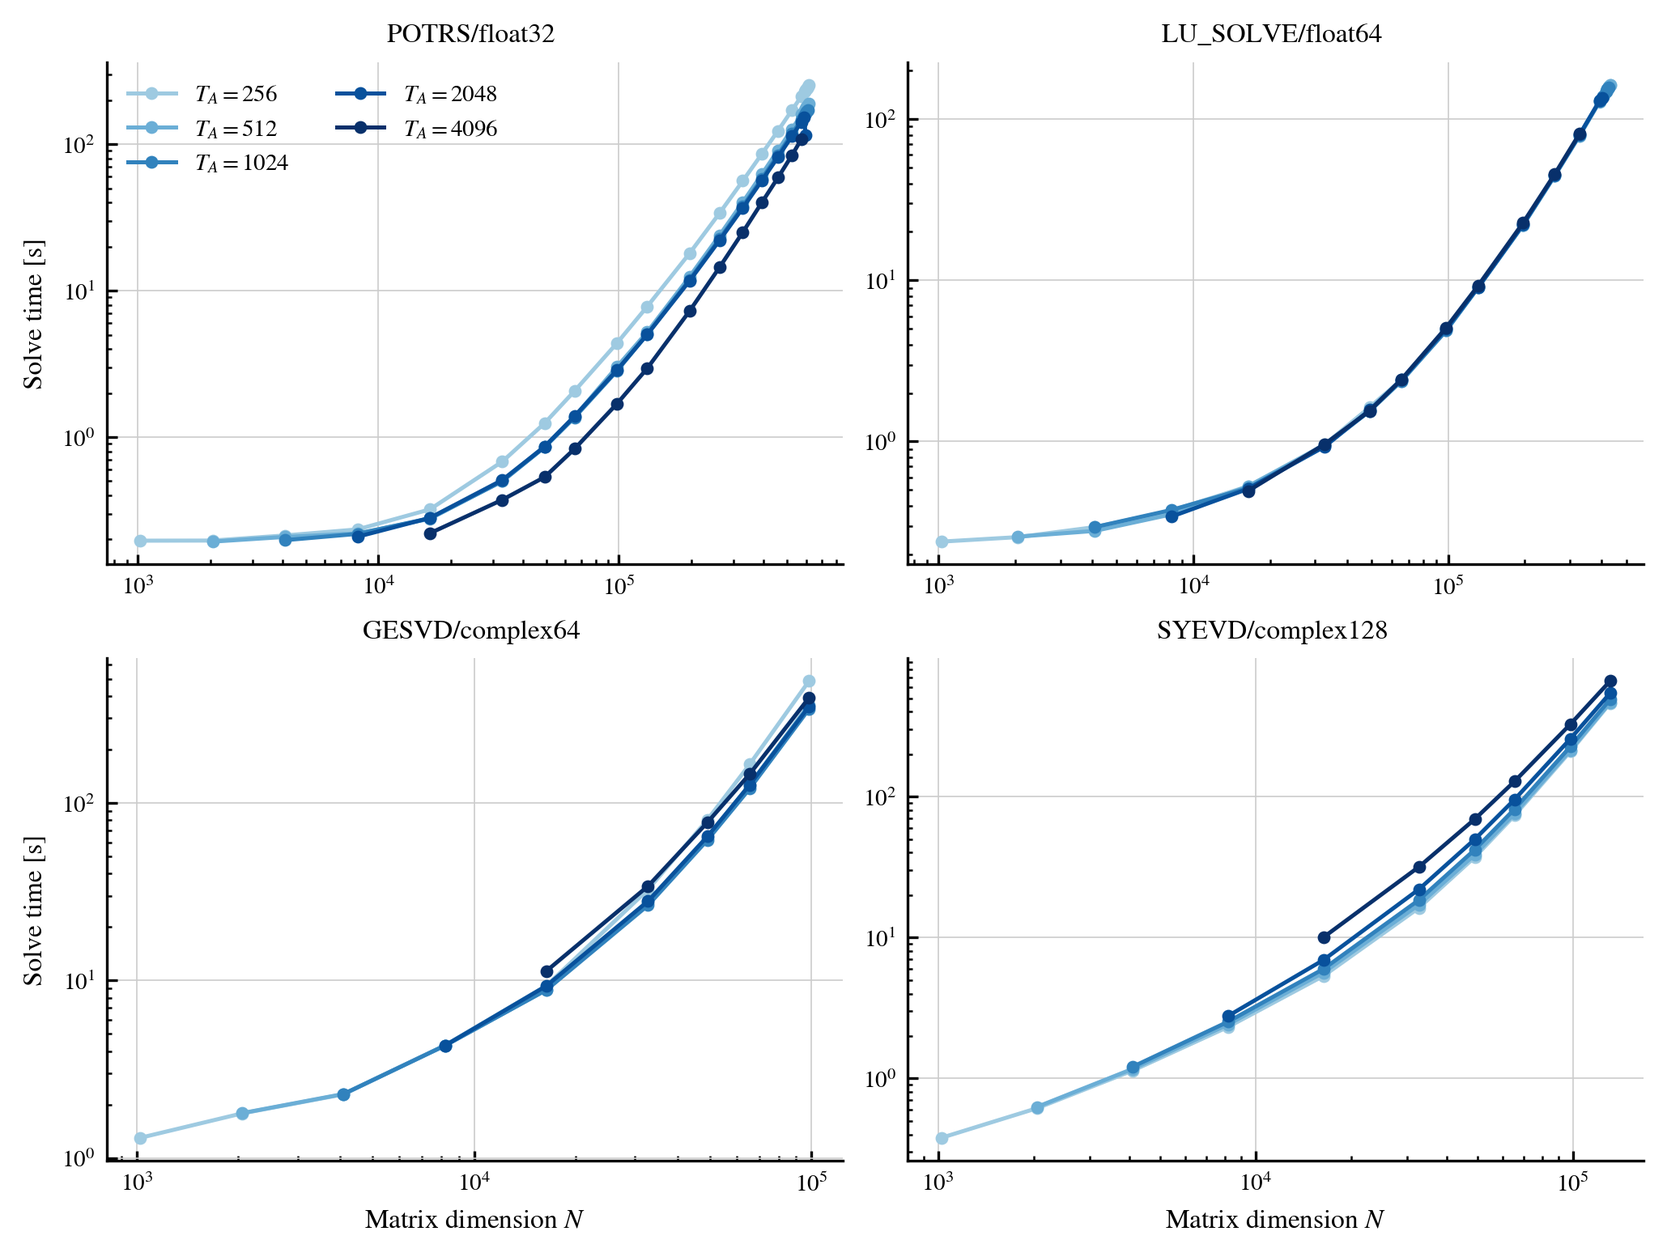
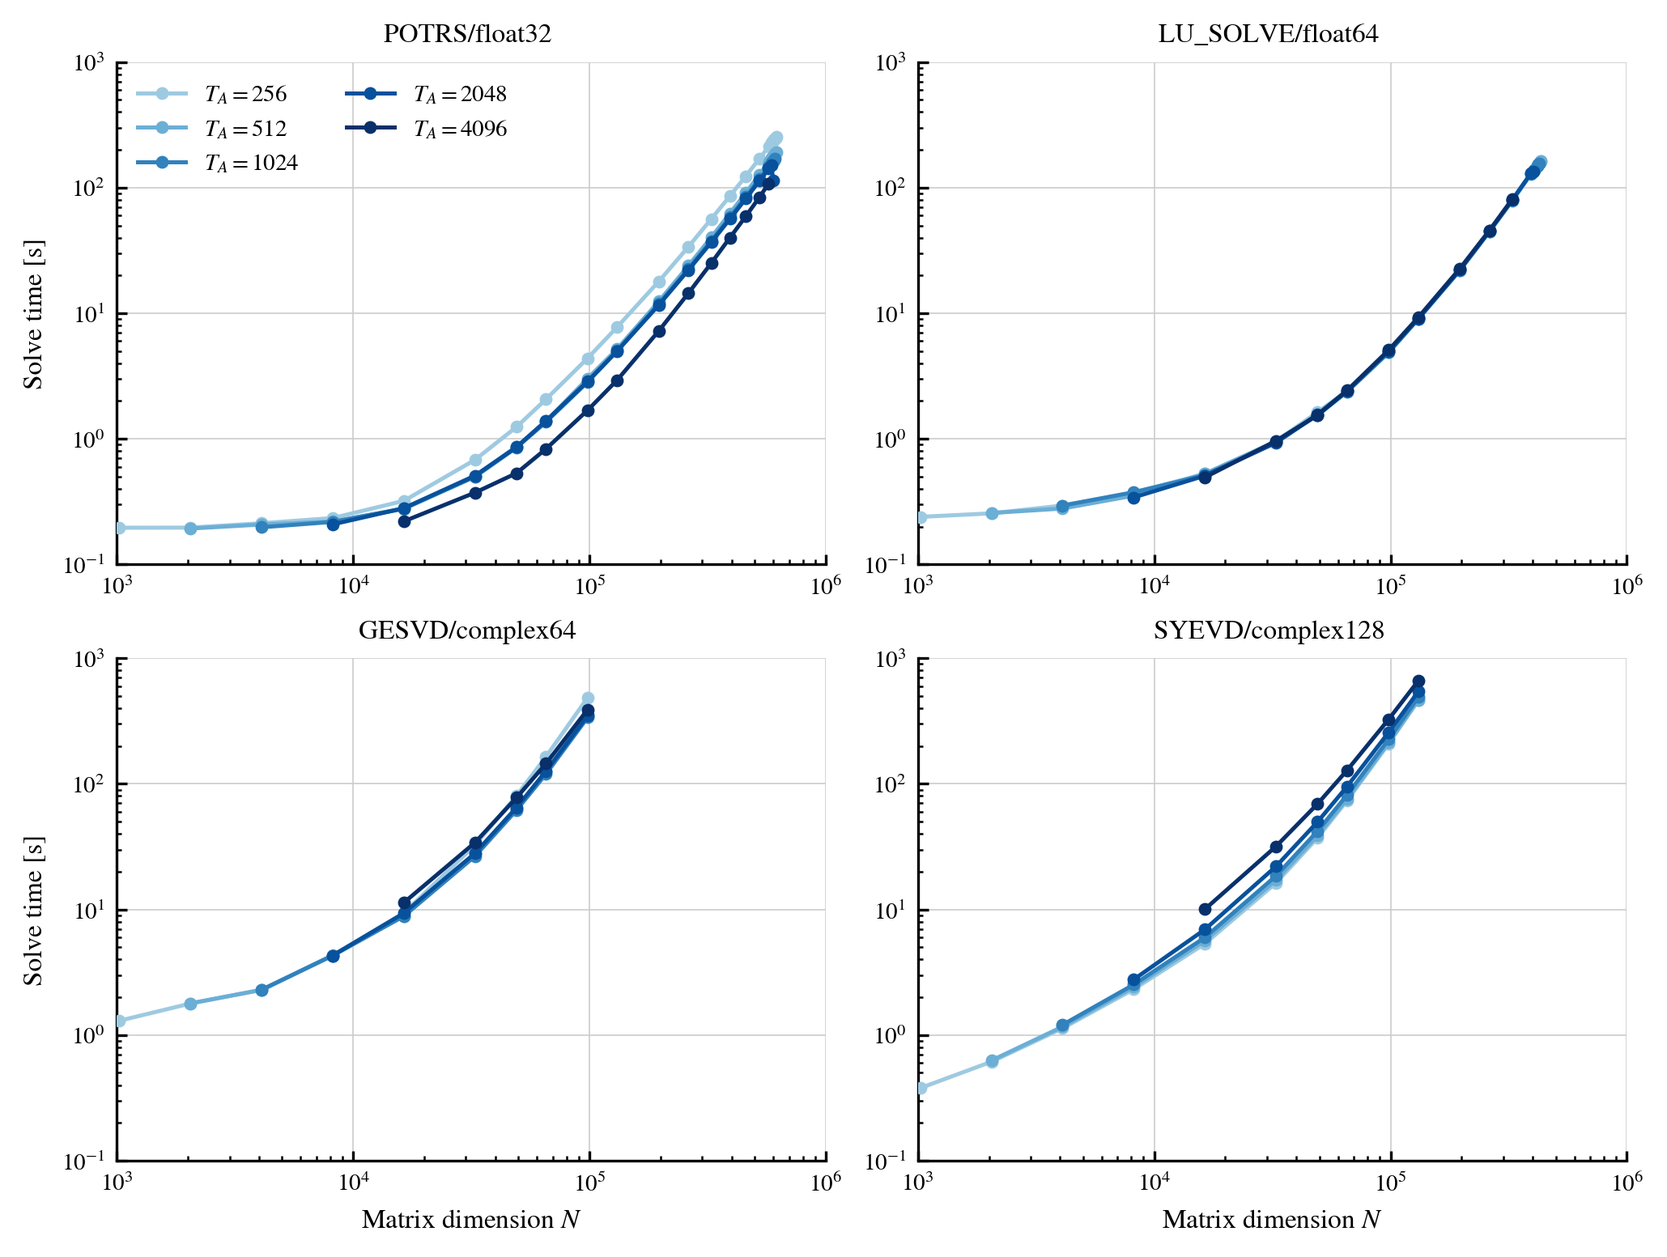
update paper

diff --git a/paper/paper.md b/paper/paper.md
@@ -17,10 +17,10 @@ authors:
     corresponding: true # (This is how to denote the corresponding author)
     affiliation: 3 # (Multiple affiliations must be quoted)
 affiliations:
- - name: Cavendish Astrophysics, University of Cambridge, Cambridge CB30HE, UK
+ - name: Cavendish Astrophysics, University of Cambridge, Cambridge CB3 0HE, UK
    index: 1
    ror: 0247acz73
- - name: Kavli Institute for Cosmology, University of Cambridge, Cambridge CB30HA, UK
+ - name: Kavli Institute for Cosmology, University of Cambridge, Cambridge CB3 0HA, UK
    index: 2
    ror: 00pwqz914
  - name: Center for Computational Quantum Physics, Flatiron Institute, 162 Fifth Avenue, New York, NY 10010, USA
@@ -35,7 +35,7 @@ bibliography: paper.bib
 
 Solving large dense linear systems and eigenvalue problems is a core requirement in many areas of scientific computing, but scaling these operations beyond a single GPU remains challenging within modern programming frameworks. While highly optimized multi-GPU solver libraries exist, they are typically difficult to integrate into composable, just-in-time (JIT) compiled Python workflows.
 
-JAXMg provides distributed dense linear algebra for JAX, enabling linear solves and decompositions for matrices that exceed single-GPU memory limits. By interfacing JAX with NVIDIA’s cuSOLVERMp through an XLA Foreign Function Interface, JAXMg exposes distributed GPU routines as JIT-compatible JAX primitives. This design allows scalable linear algebra to be embedded directly within JAX programs, preserving composability with JAX transformations and enabling multi-GPU and multi-node execution in end-to-end scientific workflows.
+JAXMg provides distributed dense linear algebra for JAX, enabling linear solves and decompositions for matrices that exceed single-GPU memory limits. By interfacing JAX with NVIDIA's cuSOLVERMp through an XLA Foreign Function Interface, JAXMg exposes distributed GPU routines as JIT-compatible JAX primitives. This design allows scalable linear algebra to be embedded directly within JAX programs, preserving composability with JAX transformations and enabling multi-GPU and multi-node execution in end-to-end scientific workflows.
 
 # Statement of need
 
@@ -50,7 +50,7 @@ In parallel, JAX [@jax2018github] has become a widely adopted framework for scie
 because it combines a simple user experience with JIT compilation and automatic
 differentiation. The JAX ecosystem has expanded rapidly, with libraries for neural networks
 [@flax2020github], Bayesian inference [@cabezas2024blackjax], differential equations [@kidger2021on],
-Variational Monte Carlo [@netket3:2022]
+variational Monte Carlo [@netket3:2022],
 and full physics simulation environments [@brax2021github]. These workflows often require repeatedly
 solving linear systems or computing eigenvalue decompositions, either as part of a larger simulation
 loop or inside differentiable optimization.
@@ -67,11 +67,11 @@ manually orchestrating GPU kernels outside JAX's JIT. These approaches
 break composability and complicate memory management.
 
 JAXMg addresses this need by providing a distributed multi-GPU and multi-node interface to GPU-accelerated solver
-backends, enabling scalable linear solves and eigendecompositions from within JAX. 
+backends, enabling scalable linear solves and eigendecompositions from within JAX.
 
 # Software design
 
-JAXMg connects JAX to NVIDIA’s distributed dense linear algebra library cuSOLVERMp [@cusolver] via an XLA Foreign Function Interface (FFI) C++/CUDA extension. This design enables writing complex, JIT-compatible JAX programs while delegating the computationally intensive components to a compiled backend.
+JAXMg connects JAX to NVIDIA's distributed dense linear algebra library cuSOLVERMp [@cusolver] via an XLA Foreign Function Interface (FFI) C++/CUDA extension. This design enables writing complex, JIT-compatible JAX programs while delegating the computationally intensive components to a compiled backend.
 
 Simply pass JAXMg an ordinary JAX array sharded over a two-dimensional device mesh. The native backend handles the local memory-layout conversion, 2D block-cyclic redistribution, distributed solver execution, and restoration of the result to its original JAX layout.
 
@@ -193,7 +193,7 @@ $$
 = \mathbf{F},
 $$
 
-where $\mathbf{S}$ is the quantum geometric tensor, $\mathbf{F}$ is the variational force associated with the energy gradient, and $\lambda>0$ is a diagonal regularization. The Monte Carlo estimate of $\mathbf{S}$ is Hermitian positive semidefinite; the regularization makes it positive definite and therefore suitable for Cholesky factorization. Because this solve is repeated at every optimization step, explicitly forming $\mathbf{S}$ for $N_{\mathrm{par}}$ parameters requires an $N_{\mathrm{par}}\times N_{\mathrm{par}}$ dense matrix and can quickly become limited by single-GPU memory. Alternatively, in the MinSR formulation [@rende2024simple,@chen2024empowering], the neural tangent kernel is of size $N_{\mathrm{samples}}\times N_{\mathrm{samples}}$, which faces a similar problem as the number of Monte Carlo samples increases. JAXMg's distributed `potrs` allows the parameter update to remain within one JIT-compiled JAX workflow, enabling direct stochastic-reconfiguration solves for larger neural quantum states and other parameterized variational ansätze.
+where $\mathbf{S}$ is the quantum geometric tensor, $\mathbf{F}$ is the variational force associated with the energy gradient, and $\lambda>0$ is a diagonal regularization. The Monte Carlo estimate of $\mathbf{S}$ is Hermitian positive semidefinite; the regularization makes it positive definite and therefore suitable for Cholesky factorization. Because this solve is repeated at every optimization step, explicitly forming $\mathbf{S}$ for $N_{\mathrm{par}}$ parameters requires an $N_{\mathrm{par}}\times N_{\mathrm{par}}$ dense matrix and can quickly become limited by single-GPU memory. Alternatively, in the MinSR formulation [@rende2024simple; @chen2024empowering], the neural tangent kernel is of size $N_{\mathrm{samples}}\times N_{\mathrm{samples}}$, which faces a similar problem as the number of Monte Carlo samples increases. JAXMg's distributed `potrs` allows the parameter update to remain within one JIT-compiled JAX workflow, enabling direct stochastic-reconfiguration solves for larger neural quantum states and other parameterized variational ansätze.
 JAXMg is integrated in the latest version of NetKet [@netket3:2022].
 
 ### General linear solve (`lu_solve`)
@@ -210,49 +210,49 @@ $$
 
 the columns of $V$ are the principal directions, while $U\Sigma$ contains the corresponding low-dimensional representations of the samples. The variance associated with the $i$th component is proportional to $\sigma_i^2$, allowing the data to be compressed by retaining only the leading singular values and vectors. JAXMg's distributed `gesvd` routine enables PCA for dense datasets whose sample or feature dimensions make the full data matrix and its decomposition too large for a single GPU.
 
-Singular-value decompositions are a central primitive in tensor-network algorithms for quantum many-body systems [@schollwock2011density; @banuls2023tensor]. After applying a local gate, contracting neighbouring tensors, or enlarging an auxiliary bond, the resulting tensor is reshaped into a matrix and decomposed as $X=U\Sigma V^\mathsf{T}$. Retaining the largest singular values yields the optimal low-rank approximation in the Frobenius norm, controls the tensor-network bond dimension, and provides an estimate of the truncation error through the discarded singular-value weight. The SVD is therefore the backbone of modern tensor network algorithms such as the density matrix renormalization group (DMRG), time-evolving block decimation (TEBD) and approximate contraction schemes for hig-dimensional networks. As the physical dimension and bond dimensions grow, the intermediate matrices entering these decompositions can become considerably larger than the tensors retained after truncation and may exceed the memory of one GPU. JAXMg's distributed `gesvd` allows tensor contractions, reshaping, singular-vector construction, and truncation to remain within a JIT-compiled JAX workflow, supporting tensor-network calculations at larger bond dimensions without exporting arrays to an external distributed solver.
+Singular-value decompositions are a central primitive in tensor-network algorithms for quantum many-body systems [@schollwock2011density; @banuls2023tensor]. After applying a local gate, contracting neighbouring tensors, or enlarging an auxiliary bond, the resulting tensor is reshaped into a matrix and decomposed as $X=U\Sigma V^\mathsf{T}$. Retaining the largest singular values yields the optimal low-rank approximation in the Frobenius norm, controls the tensor-network bond dimension, and provides an estimate of the truncation error through the discarded singular-value weight. The SVD is therefore the backbone of modern tensor-network algorithms such as the density matrix renormalization group (DMRG), time-evolving block decimation (TEBD), and approximate contraction schemes for high-dimensional networks. As the physical dimension and bond dimensions grow, the intermediate matrices entering these decompositions can become considerably larger than the tensors retained after truncation and may exceed the memory of one GPU. JAXMg's distributed `gesvd` allows tensor contractions, reshaping, singular-vector construction, and truncation to remain within a JIT-compiled JAX workflow, supporting tensor-network calculations at larger bond dimensions without exporting arrays to an external distributed solver.
 
 
 
 ### Symmetric eigendecomposition (`syevd`)
 
-The time-dependent variational principle (TDVP) projects Schrödinger evolution onto the tangent space of a parameterized quantum state, producing equations of motion of the form [@Carleo2017,@Schmitt2020QuantumDynamics]
+The time-dependent variational principle (TDVP) projects Schrödinger evolution onto the tangent space of a parameterized quantum state, producing equations of motion of the form [@Carleo2017; @Schmitt2020QuantumDynamics]
 
 $$
 \dot{\boldsymbol{\theta}}
 = -i\mathbf{S}^+ \mathbf{F},
 $$
 
-where $\mathbf{S}$ and $\mathbf{F}$ are the same objects as in the Cholesky-solve section. In practical time-dependent variational Monte Carlo calculations, redundant parameters, gauge directions, and Monte Carlo noise can make $\mathbf{S}$ singular or severely ill-conditioned. An eigendecomposition $\mathbf{S}=\mathbf{V}\boldsymbol{\Lambda}\mathbf{V}^{\dagger}$ exposes these directions and permits stable spectral regularization, for example by discarding eigenvalues below a threshold or replacing $\boldsymbol{\Lambda}^{-1}$ with a smooth pseudoinverse. Since the decomposition may be required at every stage of an ODE integrator, its memory and computational cost become substantial as the number of variational parameters grows. JAXMg's distributed `syevd` enables full-spectrum regularization and diagnostics to be carried out on matrices exceeding single-GPU memory while keeping state evaluation, Monte Carlo estimation, and time integration inside a compiled JAX program. JAXMg has been used for the t-VMC simulations of [@Wan2026BlurredSampling,@Wiersema2026].
+where $\mathbf{S}$ and $\mathbf{F}$ are the same objects as in the Cholesky-solve section. In practical time-dependent variational Monte Carlo calculations, redundant parameters, gauge directions, and Monte Carlo noise can make $\mathbf{S}$ singular or severely ill-conditioned. An eigendecomposition $\mathbf{S}=\mathbf{V}\boldsymbol{\Lambda}\mathbf{V}^{\dagger}$ exposes these directions and permits stable spectral regularization, for example by discarding eigenvalues below a threshold or replacing $\boldsymbol{\Lambda}^{-1}$ with a smooth pseudoinverse. Since the decomposition may be required at every stage of an ODE integrator, its memory and computational cost become substantial as the number of variational parameters grows. JAXMg's distributed `syevd` enables full-spectrum regularization and diagnostics to be carried out on matrices exceeding single-GPU memory while keeping state evaluation, Monte Carlo estimation, and time integration inside a compiled JAX program. JAXMg has been used for the t-VMC simulations of [@Wan2026BlurredSampling; @Wiersema2026].
 
 ## Performance and scaling
 
-To assess performance, we benchmark we benchmark two process-grid layouts at fixed GPU count in the large matrix regime. Our setup is 16 NVIDIA H100s (94 GB VRAM), 4 per node, connected with SXM5 NVLink and 4x 400Gb InfiniBand connections for inter-node communication.
+To assess performance, we benchmark two process-grid layouts at fixed GPU count in the large-matrix regime. Our setup is 16 NVIDIA H100s (94 GB VRAM), 4 per node, connected with SXM5 NVLink and 4x 400Gb InfiniBand connections for inter-node communication.
 
-We report four representative cases: `potrs` (float32), `lu_solve` (float64), and `gesvd` (complex64) and `syevd` (complex128).
-For `potrs`, `lu_solve` and `syevd`, we use a diagonal matrix $A=\mathrm{diag}(1,\ldots,N)$, and for `potrs` and `lu_solve` we set $b=(1,\ldots,1)^\mathsf{T}$. For `gesvd`, we use a random Gaussian matrix with mean zero and unit variance. We set the tile size $T_A=256$ and report wall-clock timings in \autoref{fig:benchmark}; the benchmark code is available at [@jaxmg_benchmark].
+We report four representative cases: `potrs` (float32), `lu_solve` (float64), `gesvd` (complex64), and `syevd` (complex128).
+For `potrs`, `lu_solve`, and `syevd`, we use a diagonal matrix $A=\mathrm{diag}(1,\ldots,N)$, and for `potrs` and `lu_solve` we set $b=(1,\ldots,1)^\mathsf{T}$. For `gesvd`, we use a random Gaussian matrix with mean zero and unit variance. We set the tile size $T_A=256$ and report wall-clock timings in \autoref{fig:benchmark}; the benchmark code is available at [@jaxmg_benchmark].
 We see that JAXMg scales better than the native single-GPU linear algebra routines and surpasses them in performance, especially for larger matrices.
 Both `gesvd` and `syevd` require significantly more workspace memory than `potrs` and `lu_solve`, which is reflected in the matrix sizes that can be reached.
 
-![Wall-clock solve time against matrix dimension $N$ for JAXMg on 16 NVIDIA H100 GPUs, comparing two process-grid layouts at fixed GPU count and fixed tile size $T_A=256$: a $16\times1$ column grid (dark blue) and a $4\times4$ square grid (orange). There are four panels: (a) `jaxmg.potrs` (float32), (b) `jaxmg.lu_solve` (float64), (c) `jaxmg.gesvd` (complex64) and (d) `jaxmg.syevd` (complex128). The square grid is faster in every case, by a geometric mean of $1.77\times$ for `potrs`, $1.38\times$ for `gesvd`, $1.23\times$ for `lu_solve`, and $1.21\times$ for `syevd`. The two matrix decompositions hold more matrix-sized workspace per GPU than the solves and so terminate at markedly smaller $N$.\label{fig:benchmark}](jaxmg_benchmark.png){ width=100% }
+![Wall-clock solve time against matrix dimension $N$ for JAXMg on 16 NVIDIA H100 GPUs, comparing two process-grid layouts at fixed GPU count and fixed tile size $T_A=256$ — a $16\times1$ column grid (dark blue) and a $4\times4$ square grid (orange) — each against single-GPU native JAX (green, dashed). There are four panels: (a) `jaxmg.potrs` (float32), (b) `jaxmg.lu_solve` (float64), (c) `jaxmg.gesvd` (complex64) and (d) `jaxmg.syevd` (complex128). The square grid is faster in every case, by a geometric mean of $1.77\times$ for `potrs`, $1.38\times$ for `gesvd`, $1.23\times$ for `lu_solve`, and $1.21\times$ for `syevd`. The two matrix decompositions hold more matrix-sized workspace per GPU than the solves and so terminate at markedly smaller $N$.\label{fig:benchmark}](jaxmg_benchmark.png){ width=100% }
 
 To investigate the effect of the tile size, we sweep the different tile sizes $T_A$ for all routines and report wall-clock timings in \autoref{fig:tile_sweep}; the benchmark code is available at [@jaxmg_benchmark]. While `potrs` clearly benefits from larger tile sizes, the performance of `lu_solve` is unaffected. `syevd` degrades steadily as the tile grows, while `gesvd` is fastest at an intermediate $T_A=1024$ and slower at both smaller and larger tiles.
 
-![Effect of the tile size on JAXMg wall-clock solve time, for the $4\times4$ process grid on the same 16 NVIDIA H100 GPUs. Each panel draws one curve per $T_A\in\{256,512,1024,2048,4096\}$, shaded light to dark with increasing tile size. There are four panels: (a)`jaxmg.potrs` (float32), (b) `jaxmg.lu_solve` (float64), (c) `jaxmg.gesvd` (complex64) and (d) `jaxmg.syevd` (complex128). Curves for larger $T_A$ begin at larger $N$ because a dimension must be a whole number of tiles along both grid axes.\label{fig:tile_sweep}](tile_sweep.png){ width=100% }
+![Effect of the tile size on JAXMg wall-clock solve time, for the $4\times4$ process grid on the same 16 NVIDIA H100 GPUs. Each panel draws one curve per $T_A\in\{256,512,1024,2048,4096\}$, shaded light to dark with increasing tile size. There are four panels: (a) `jaxmg.potrs` (float32), (b) `jaxmg.lu_solve` (float64), (c) `jaxmg.gesvd` (complex64) and (d) `jaxmg.syevd` (complex128). Curves for larger $T_A$ begin at larger $N$ because a dimension must be a whole number of tiles along both grid axes.\label{fig:tile_sweep}](tile_sweep.png){ width=100% }
 
-To test the limits of what JAXMg can do, we performed a Cholesky solve of a matrix of size $N=1499136$ with $T_A=1024$ on 64 NVIDIA H200s (143 GB VRAM) laid out on an 8x8 grid, using 8 GPUs per node with SXM5 NVLink and 8x 400Gb InfiniBand connections for inter-node communication. This matrix occupies 8.2 TiB in aggregate device memory, and the warm solve took 654 seconds. At the largest dimension both layouts completed, $N=1310720$, the 8x8 grid was 6.8 times faster than the 64x1 grid, at 452 against 3065 seconds.
+To test the limits of what JAXMg can do, we performed a Cholesky solve of a matrix of size $N=1499136$ with $T_A=1024$ on 64 NVIDIA H200s (143 GB VRAM) laid out on an $8\times8$ grid, using 8 GPUs per node with SXM5 NVLink and 8x 400Gb InfiniBand connections for inter-node communication. This matrix occupies 8.2 TiB in aggregate device memory, and the warm solve took 654 seconds. At the largest dimension both layouts completed ($N=1310720$), the $8\times8$ grid was 6.8 times faster than the $64\times1$ grid, at 452 against 3065 seconds.
 
-These results highlight JAXMg’s primary impact: enabling dense linear solves and eigendecompositions that are bottlenecked by the memory capacity of a single GPU, while remaining within JAX’s composable and JIT-compiled programming model. On modern multi-GPU nodes, distributed in-node solvers make it possible to tackle matrix sizes that would otherwise be infeasible, and to increase throughput by using aggregate device memory and compute.
+These results highlight JAXMg's primary impact: enabling dense linear solves and eigendecompositions that are bottlenecked by the memory capacity of a single GPU, while remaining within JAX's composable and JIT-compiled programming model. On modern multi-GPU nodes, distributed in-node solvers make it possible to tackle matrix sizes that would otherwise be infeasible, and to increase throughput by using aggregate device memory and compute.
 
 # AI usage disclosure
 
-Claude code was used during software development for code exploration and debugging. Large language models were used to assist with language polishing.
+Claude Code was used during software development for code exploration and debugging. Large language models were used to assist with language polishing.
 
 # Acknowledgements
 
-We want to thank Dennis Bollweg, Alex Chavin, Geraud Krawezik, Dylan Simon and Nils Wentzell for their help with developing the code. We also want to acknowledge the help of Ao Chen and Riccardo Rende with testing the code in applied settings. RW is grateful to Simon Tartakovsky for his suggestions on the 1D cyclic algorithm. Finally, we want to thank Filippo Vincentini for his suggestions on code distribution. I acknowledge support from the Flatiron Institute. The Flatiron Institute is a division of the Simons Foundation. 
+We want to thank Dennis Bollweg, Alex Chavin, Geraud Krawezik, Dylan Simon and Nils Wentzell for their help with developing the code. We also want to acknowledge the help of Ao Chen and Riccardo Rende with testing the code in applied settings. RW is grateful to Simon Tartakovsky for his suggestions on the 1D cyclic algorithm. Finally, we want to thank Filippo Vincentini for his suggestions on code distribution. RW acknowledges support from the Flatiron Institute. The Flatiron Institute is a division of the Simons Foundation.
 
-The authors acknowledge the use of resources provided by the Isambard-AI National AI Research Resource (AIRR). Isambard-AI [@Isamabrd_2024] is operated by the University of Bristol and is funded by the UK Government’s Department for Science, Innovation and Technology (DSIT) via UK Research and Innovation; and the Science and Technology Facilities Council [ST/AIRR/I-A-I/1023].
+The authors acknowledge the use of resources provided by the Isambard-AI National AI Research Resource (AIRR). Isambard-AI [@Isamabrd_2024] is operated by the University of Bristol and is funded by the UK Government's Department for Science, Innovation and Technology (DSIT) via UK Research and Innovation; and the Science and Technology Facilities Council [ST/AIRR/I-A-I/1023].
 
 
 # References
